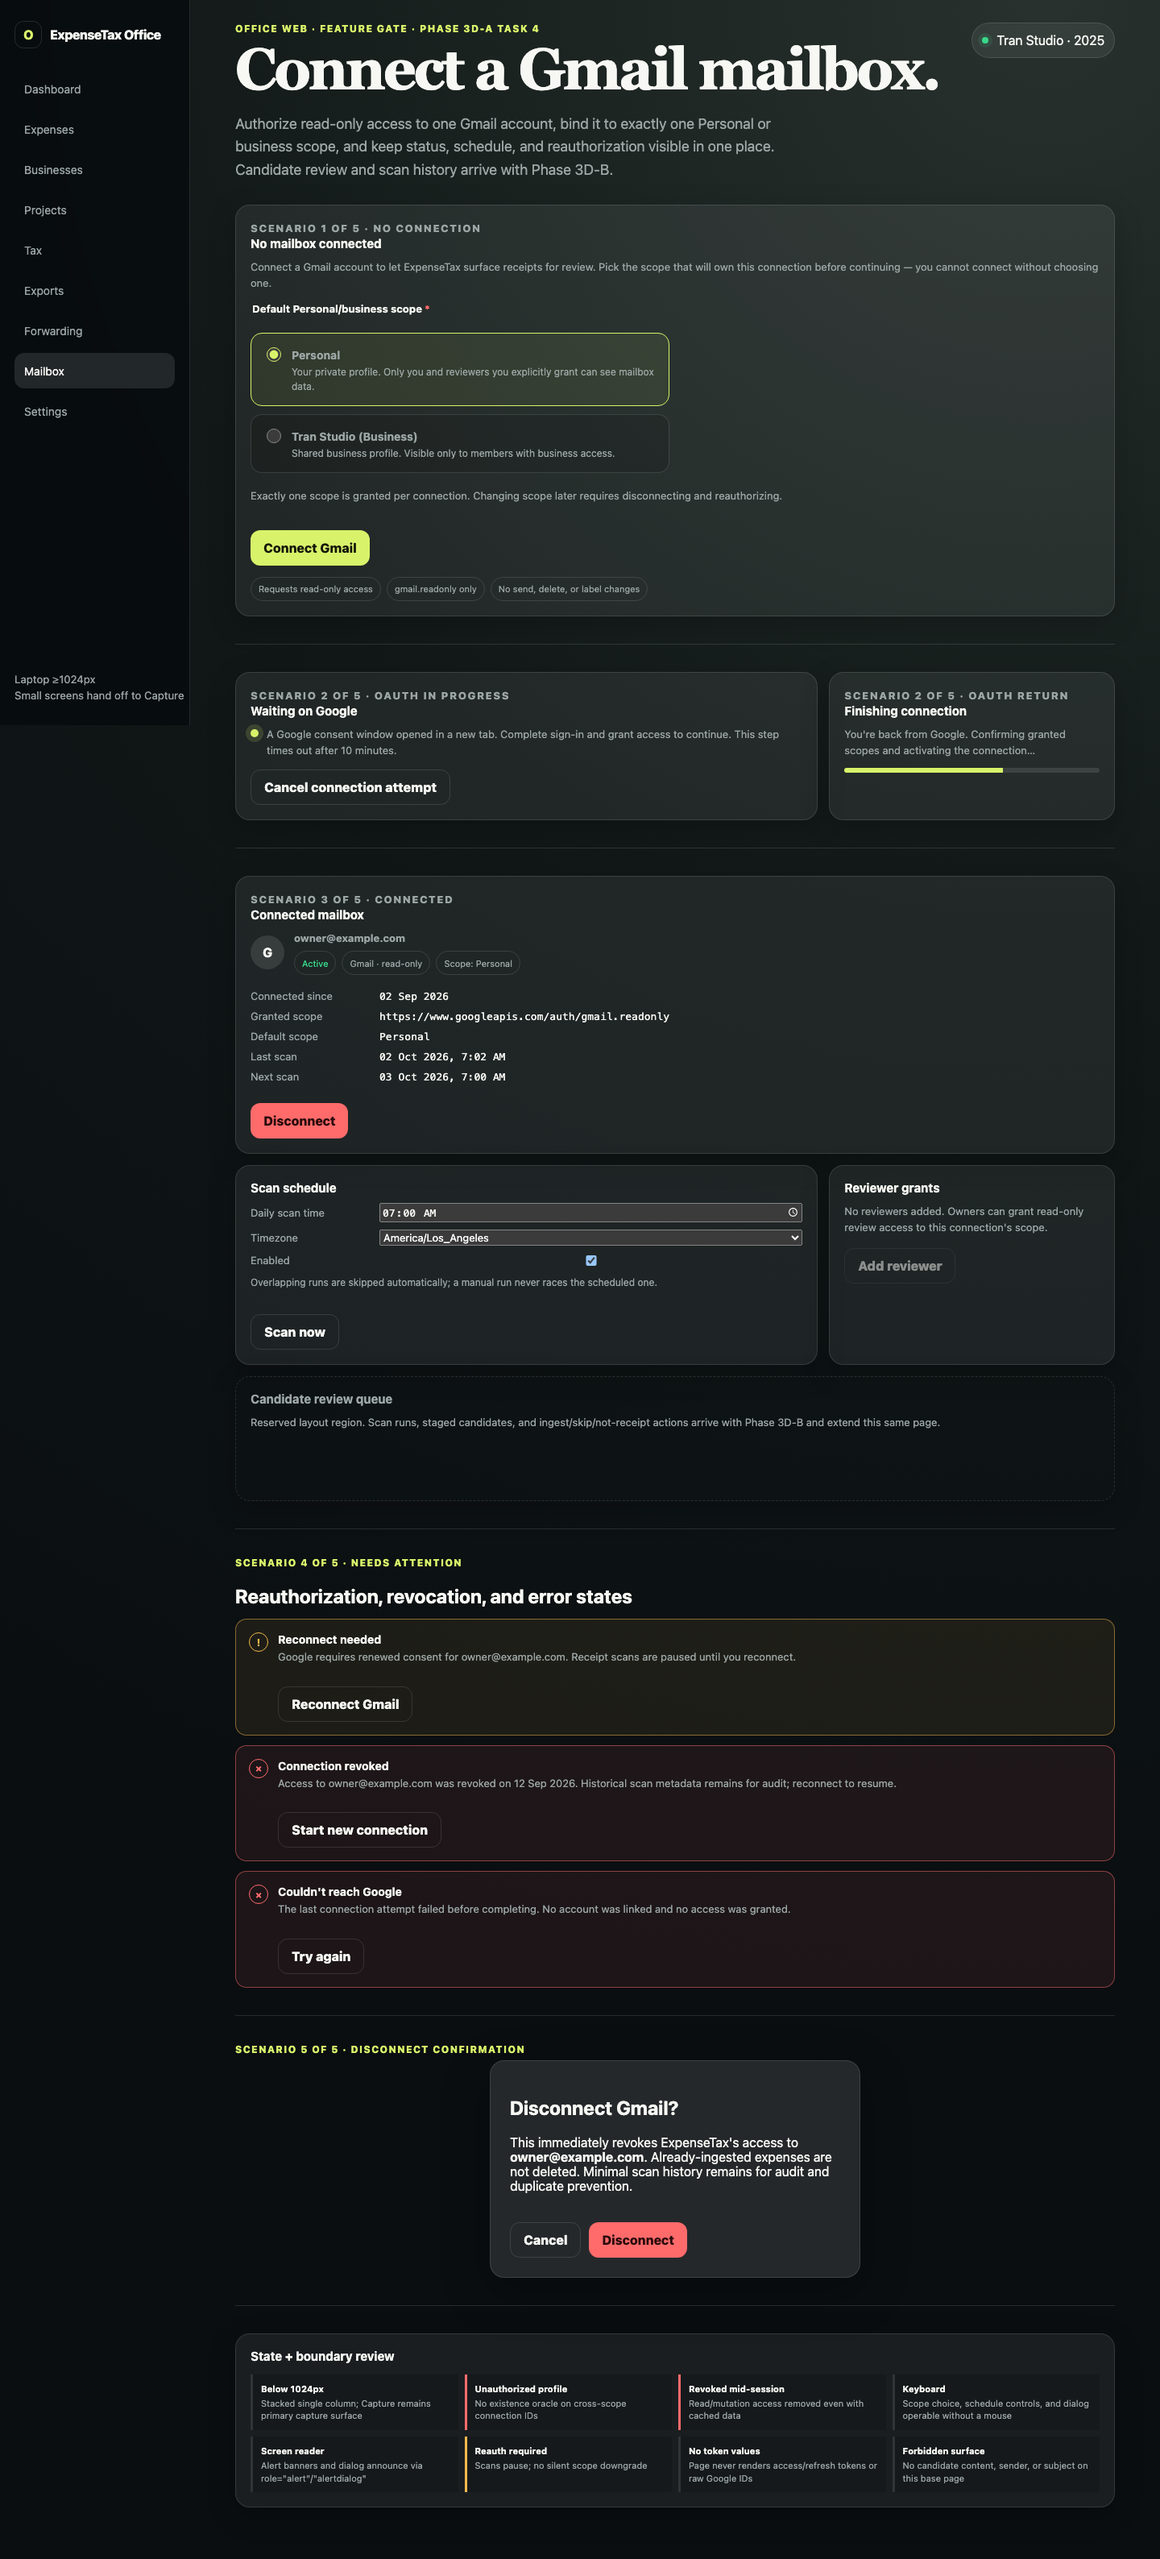
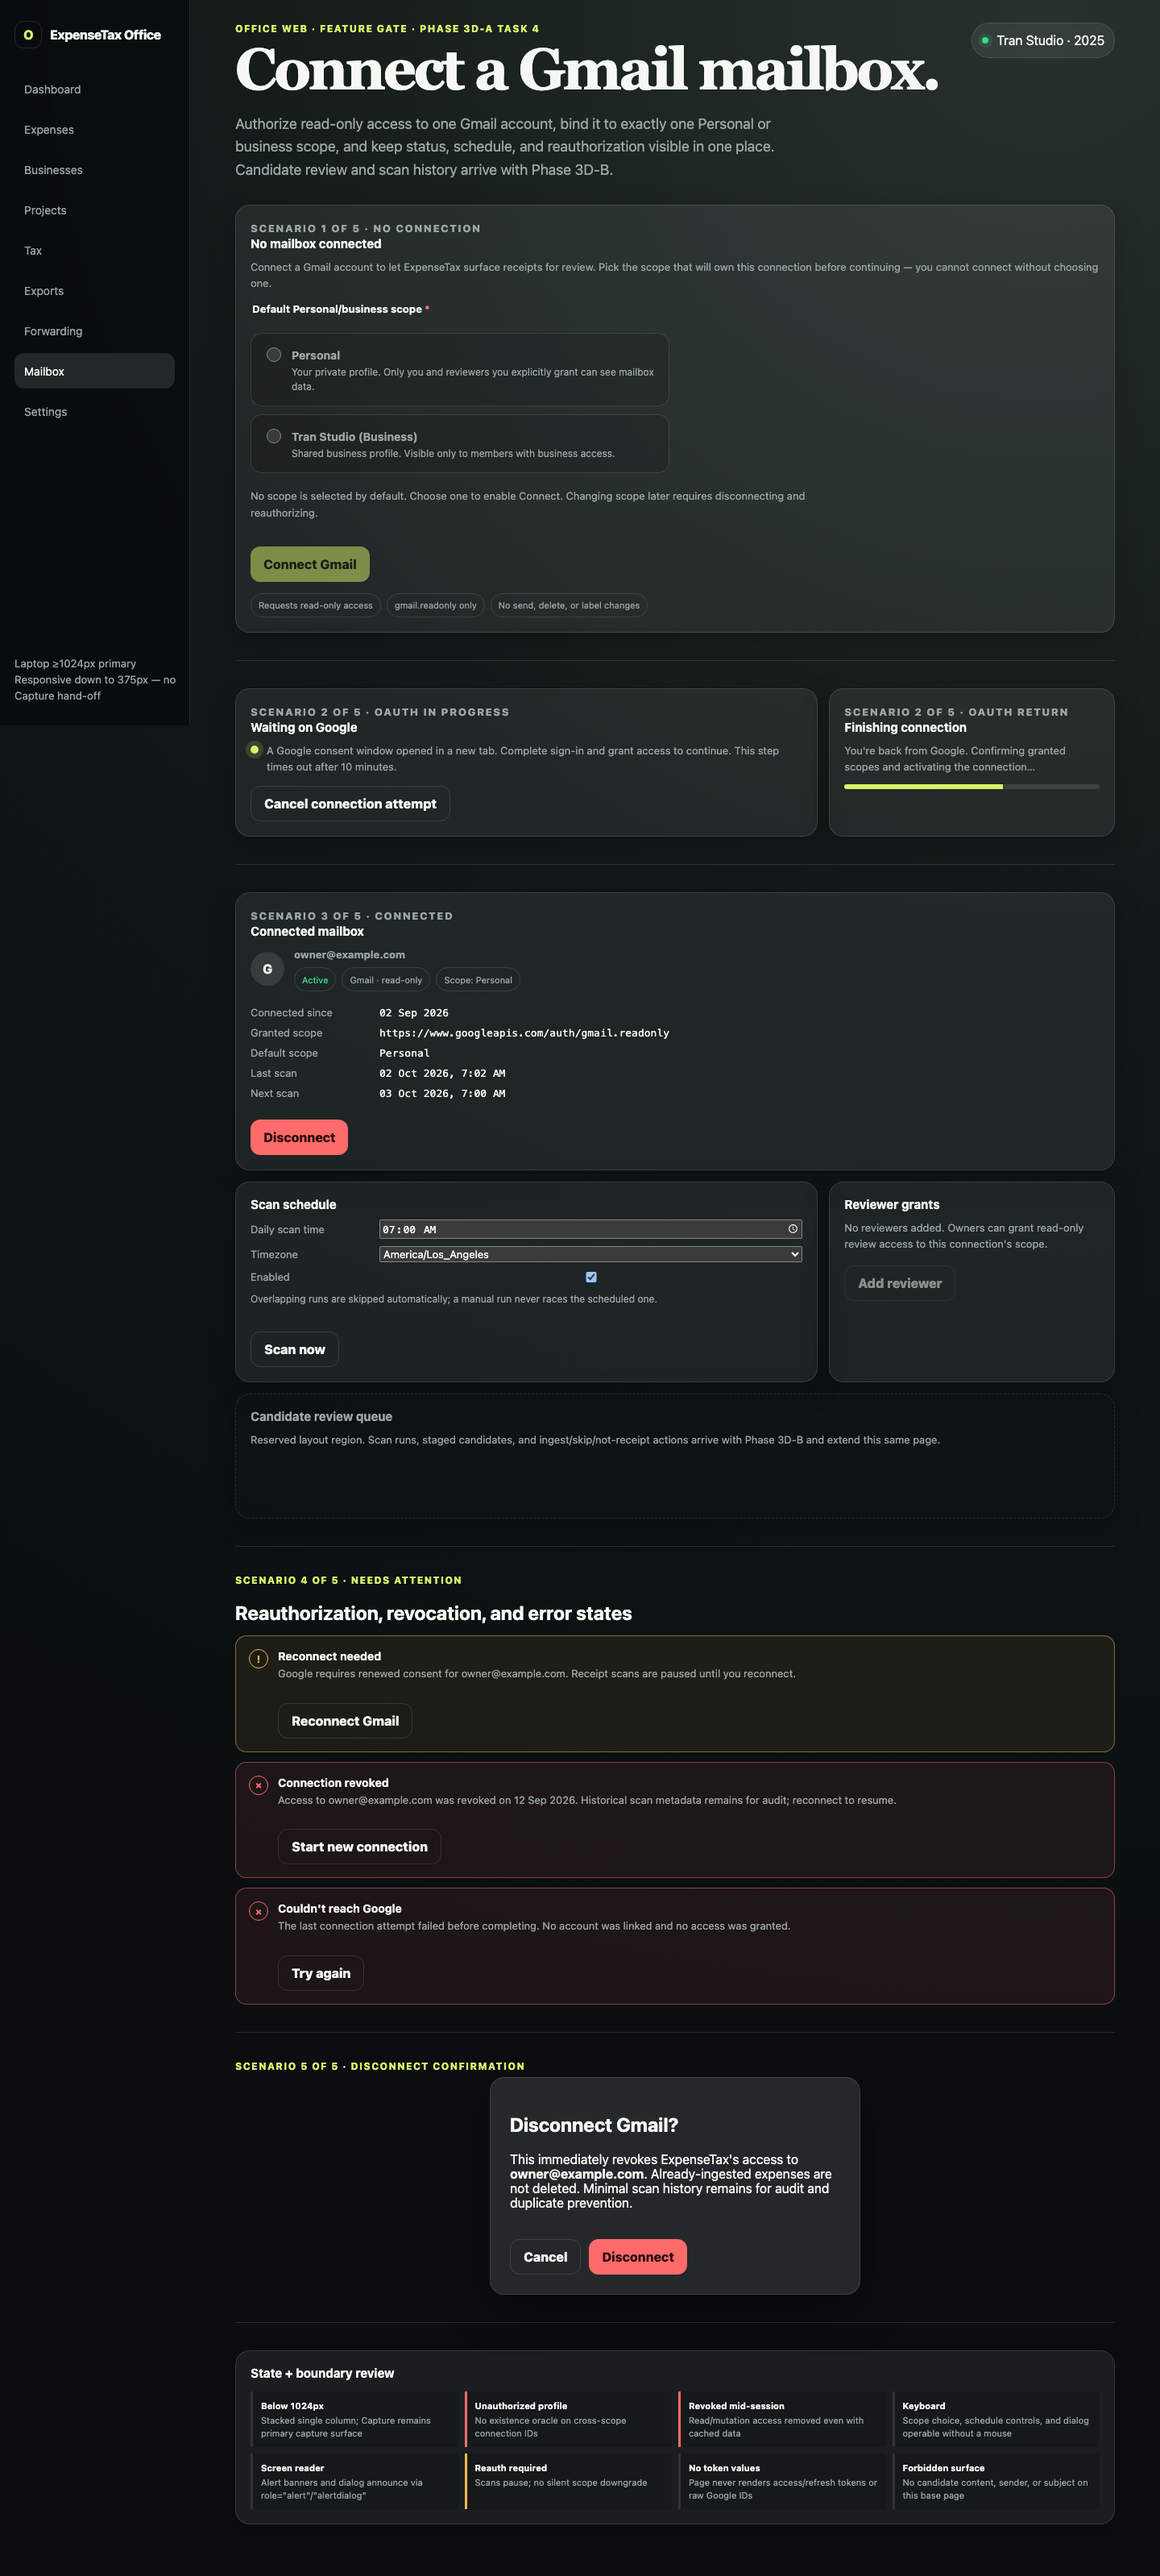
docs(mockups): apply owner decisions, approve Office mailbox gate
Force explicit Personal/business scope choice (no preselected radio;
Connect Gmail disabled until chosen); confirm Mailbox nav between
Forwarding/Settings; remove stale Capture hand-off copy now that
/mailbox is usable on mobile. Regenerate 1440/768/375 renders.
Mark office-mailbox/REVIEW.md and the README gate entry approved by
Toby Tran on 2026-10-03; candidate-review placeholder sizing deferred
to Phase 3D-B.

(cherry picked from commit 6f15126ee074410525db4b55555535786e2561ca)

diff --git a/expense-tax-management/plans/mockups/office-mailbox/mailbox.html b/expense-tax-management/plans/mockups/office-mailbox/mailbox.html
@@ -24,7 +24,7 @@
       <a aria-current="page" href="#main">Mailbox</a>
       <a href="#">Settings</a>
     </nav>
-    <small>Laptop ≥1024px<br>Small screens hand off to Capture</small>
+    <small>Laptop ≥1024px primary<br>Responsive down to 375px — no Capture hand-off</small>
   </aside>
   <main id="main">
     <div class="topline">
@@ -45,7 +45,7 @@
           <legend class="field-row" style="display:block;color:var(--ink);font-weight:700;margin-bottom:8px">Default Personal/business scope<span style="color:var(--danger)"> *</span></legend>
           <div class="scope-options" role="radiogroup" aria-required="true" aria-describedby="scope-help">
             <label class="scope-option" for="scope-personal">
-              <input type="radio" id="scope-personal" name="mailbox-scope" value="personal" checked>
+              <input type="radio" id="scope-personal" name="mailbox-scope" value="personal">
               <span><strong>Personal</strong><span>Your private profile. Only you and reviewers you explicitly grant can see mailbox data.</span></span>
             </label>
             <label class="scope-option" for="scope-business">
@@ -54,8 +54,8 @@
             </label>
           </div>
         </fieldset>
-        <p id="scope-help" class="lede" style="margin:0 0 16px;font-size:13px">Exactly one scope is granted per connection. Changing scope later requires disconnecting and reauthorizing.</p>
-        <button class="button" type="button">Connect Gmail</button>
+        <p id="scope-help" class="lede" style="margin:0 0 16px;font-size:13px">No scope is selected by default. Choose one to enable Connect. Changing scope later requires disconnecting and reauthorizing.</p>
+        <button class="button" type="button" disabled aria-disabled="true" title="Select a Personal or business scope to enable Connect">Connect Gmail</button>
         <p class="meta" style="margin-top:14px"><span class="chip">Requests read-only access</span><span class="chip">gmail.readonly only</span><span class="chip">No send, delete, or label changes</span></p>
       </article>
     </section>

diff --git a/expense-tax-management/plans/mockups/office-mailbox/REVIEW.md b/expense-tax-management/plans/mockups/office-mailbox/REVIEW.md
@@ -2,8 +2,8 @@
 
 - Prepared: 2026-10-03
 - Scope: `mailbox.html`, `mailbox.css`, `mailbox-mobile-375.png`, `mailbox-tablet-768.png`, `mailbox-desktop-1440.png`, `NOTES.md`
-- **Status: pending owner approval**
-- Verdict: _not yet reviewed_
+- **Status: Approved**
+- Verdict: **Approved by Toby Tran on 2026-10-03**, as drafted, with the decisions below.
 
 ## What this covers
 
@@ -13,27 +13,29 @@ Office Web `/mailbox` base page per the revised Phase 3D spec and Phase 3D-A pla
 
 No application code was written or modified. This folder contains static HTML/CSS and PNG renders only, per `../README.md`'s conventions.
 
-## Decisions baked into this mockup (confirm or override)
+## Owner decisions (2026-10-03)
 
-- Mailbox sits in the Office sidebar between Forwarding and Settings.
-- Scope selector defaults to "Personal" (no scope pre-selected would also be defensible).
-- Mobile (375px) renders a stacked, usable layout rather than a hand-off notice, despite Office's laptop-first posture elsewhere in `../rebaseline/`.
-- Reauthorization, revocation, and error are three visually distinct banners, not one generic "problem" state.
+1. **Scope selection** — force an explicit Personal-or-business choice. No radio is preselected; "Connect Gmail" renders disabled until a scope is chosen. Mockup and renders updated to match.
+2. **Sidebar** — Mailbox stays between "Forwarding" and "Settings". Already matched; no change needed.
+3. **Mobile** — `/mailbox` is usable in Office with the responsive stacked layout at 375px; no hand-off to Capture. Already matched in layout; sidebar helper copy updated to remove the stale "hand off to Capture" wording.
 
-## Open questions
+## Deferred to Phase 3D-B
 
-See `NOTES.md` → "Open questions for owner review" (5 items: nav position, mobile posture, OAuth-progress fidelity, scope default, candidate-queue placeholder sizing).
+- Candidate review placeholder sizing (currently one empty reserved card; 3D-B decides final shape).
+- OAuth-in-progress in-app fidelity beyond the two static review frames shown here.
 
 ## Sign-off checklist
 
 - [x] Covers all 6 required states (no connection, OAuth in progress, OAuth return, connected, reauth/revoked/error, disconnect confirmation).
 - [x] Desktop (1440) and mobile (375) renders present; tablet (768) included as a bonus third viewport.
 - [x] Accessible roles/labels on every interactive control and status region (see NOTES.md → Accessibility).
-- [x] No real email addresses, message content, or personal data; fixture matches existing `Tran Studio` tenant used elsewhere in `../rebaseline/`.
+- [x] No real email addresses, message content, or personal data.
 - [x] Visual language matches the approved Office shell (`../rebaseline/shared/tokens.css` reused, not duplicated).
-- [ ] Human reviewer (Toby Tran) approves scope coverage, open questions, and nav placement.
+- [x] Scope selection forces explicit choice; Connect disabled until chosen.
+- [x] Mobile renders a usable, responsive `/mailbox` page; no Capture hand-off language remains.
+- [x] Human reviewer (Toby Tran) approved scope coverage, decisions, and nav placement — 2026-10-03.
 
 ## Evidence
 
-- 3 PNG renders regenerated via `npx playwright screenshot --full-page` (headless Chromium, Chrome for Testing 153.0.8010.12), 2026-10-03.
-- Manual visual check of all three renders for overlap/collision/contrast; no issues found. The fixed mobile bottom nav appears once at its pinned position in the full-page mobile render, which is expected screenshot behavior for `position: fixed` elements, not a layout bug.
+- 3 PNG renders regenerated via `npx playwright screenshot --full-page` (headless Chromium, Chrome for Testing 153.0.8010.12) after the 2026-10-03 scope/disabled-button and mobile-copy changes.
+- Manual visual check of all three renders: no preselected scope radio, Connect Gmail visibly disabled, sidebar/footer copy no longer references a Capture hand-off, Mailbox nav item between Forwarding and Settings confirmed.

diff --git a/expense-tax-management/plans/mockups/office-mailbox/NOTES.md b/expense-tax-management/plans/mockups/office-mailbox/NOTES.md
@@ -8,7 +8,7 @@ Source: local `mailbox.html` (standalone, no build step) + `mailbox.css` (featur
 
 ## Scenario coverage (per task requirement)
 
-1. No connection — connect CTA + explicit Personal/business scope radio selection (default Personal, nothing pre-submits without a choice).
+1. No connection — connect CTA + explicit Personal/business scope radio selection; no scope is preselected and Connect stays disabled until one is chosen.
 2. OAuth in progress / return — "waiting on Google" (external consent window) and "finishing connection" (post-redirect confirmation) shown as two adjacent frames.
 3. Connected — account email, status chip, granted scope, default Personal/business scope, connection metadata, scan schedule (daily time/timezone/enable + manual "Scan now"), reviewer grants (empty-state base; add-reviewer reserved for 3D-B), and a reserved "Candidate review queue" placeholder so 3D-B/C can extend this layout without a redesign.
 4. Revoked / error / reauthorization-needed — three distinct `role="alert"` banners: `reauth_required` (amber), `revoked` (red), and a generic failed-attempt error (red), matching the status enum in the Phase 3D design spec (`pending/active/paused/reauth_required/disconnecting/revocation_pending/revoked`).
@@ -23,13 +23,16 @@ No real email addresses, message content, or personal data: all copy uses `owner
 - All controls are real `<button>`/`<input>`/`<select>` elements, ≥44px touch target per shared tokens.
 - "Add reviewer" is marked `aria-disabled="true"` with a `title` explaining it's reserved for 3D-B, not a dead/unlabeled control.
 
-## Open questions for owner review
+## Owner decisions (approved 2026-10-03)
 
-1. **Mailbox nav position** — placed between "Forwarding" and "Settings" in the sidebar, matching the real `nav` array in `frontend/office-web/src/components/office-shell.tsx` with one item inserted. Confirm placement (alternative: right after "Expenses", since mailbox feeds the ledger).
-2. **Mobile viewport posture** — Office is laptop-first per the rebaseline gate ("below 1024px: Capture handoff, never compressed tax UI"). This mockup still renders a usable stacked mobile layout because the task asked for mobile coverage; confirm whether `/mailbox` should actually be reachable on phones or should redirect to a Capture-side "connect from desktop" notice instead.
-3. **OAuth-in-progress real behavior** — mockup shows both "waiting" and "return" as static frames on one page for review purposes; implementation will route through an actual external redirect. Confirm no additional in-app waiting UI (e.g., polling spinner) is expected beyond what's shown.
-4. **Scope radio default** — mockup defaults to "Personal" selected. Confirm this is the right default versus requiring an explicit choice with neither pre-selected.
-5. **Candidate review placeholder sizing** — the reserved region is a single empty card. Confirm this is enough space, or whether 3D-B needs a taller/table-shaped reservation.
+1. **Scope selection** — no radio is preselected; "Connect Gmail" renders `disabled`/`aria-disabled="true"` until Personal or business is explicitly chosen.
+2. **Mailbox nav position** — stays between "Forwarding" and "Settings".
+3. **Mobile posture** — `/mailbox` is usable on phones with the responsive stacked layout; no hand-off to Capture. Sidebar helper text and the state-review card no longer imply a hand-off.
+
+## Deferred to Phase 3D-B
+
+- **Candidate review placeholder sizing** — the reserved region remains a single empty card in this base mockup. 3D-B decides whether it needs a taller/table-shaped reservation when scan history and the candidate queue are designed.
+- **OAuth-in-progress fidelity** — "waiting" and "return" remain static review frames; 3D-B/implementation may add in-app polling UI beyond what's shown here if needed.
 
 ## Sources
 

diff --git a/expense-tax-management/plans/mockups/README.md b/expense-tax-management/plans/mockups/README.md
@@ -46,6 +46,6 @@ Every folder now carries `mobile-375.png`, `tablet-768.png`, `desktop-1440.png`,
 
 ## Feature-Specific Gates
 
-- [ ] **Office mailbox gate -> Phase 3D-A Task 4**: connect/account/status/schedule/reviewer base for the connected-Gmail mailbox page; 1440/768/375 renders. **Status: pending owner approval.** See `office-mailbox/REVIEW.md` and `office-mailbox/NOTES.md`.
+- [x] **Office mailbox gate -> Phase 3D-A Task 4**: connect/account/status/schedule/reviewer base for the connected-Gmail mailbox page; 1440/768/375 renders. **Approved by Toby Tran on 2026-10-03** — explicit scope choice required (no preselected radio, Connect disabled until chosen), Mailbox nav stays between Forwarding/Settings, `/mailbox` usable on mobile (no Capture hand-off). Candidate-review placeholder sizing deferred to Phase 3D-B. See `office-mailbox/REVIEW.md` and `office-mailbox/NOTES.md`.
 
 > Historical note: 30 legacy PNGs passed structural checks on 2026-09-06. That evidence does not approve the new three-application architecture.
